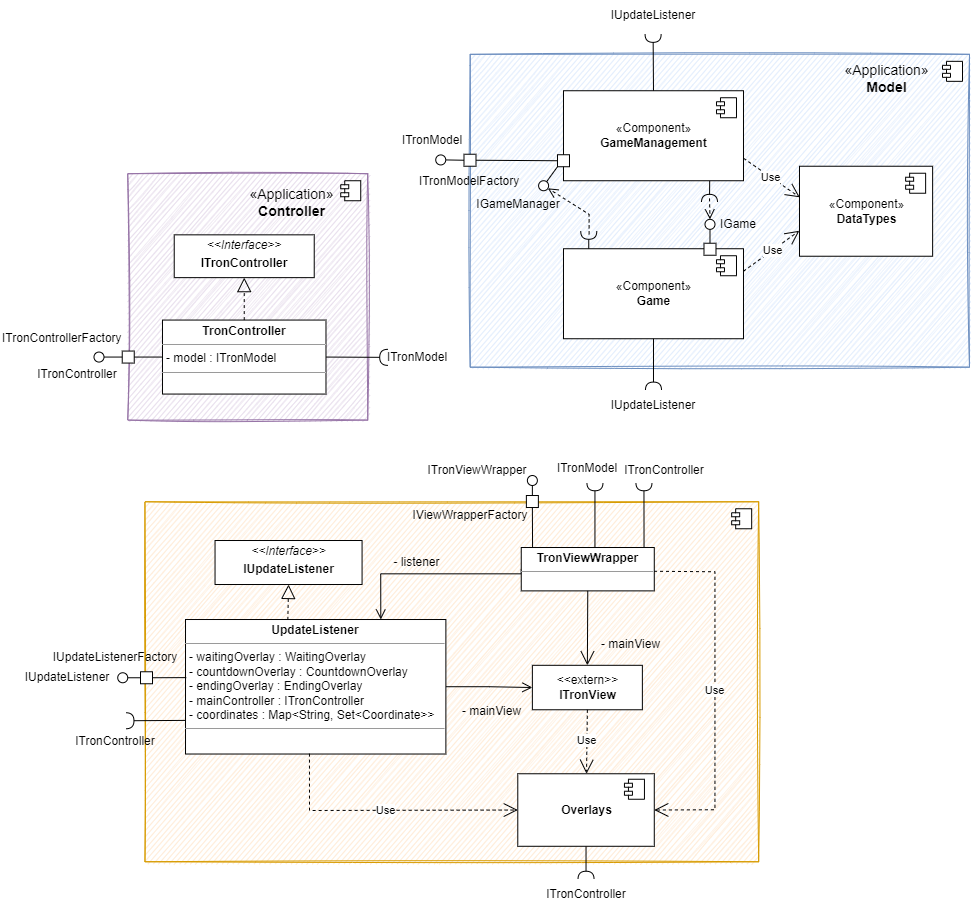
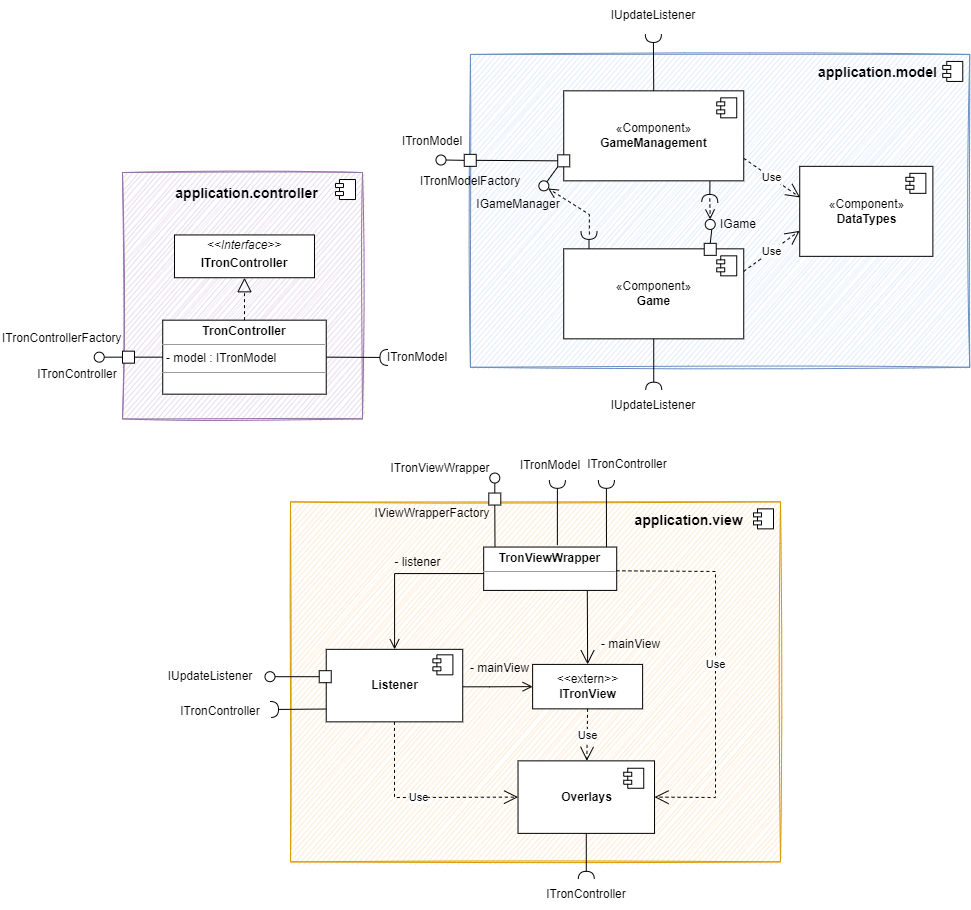
baustein

diff --git a/Dokumentation/App/TronGame_Documentation.md b/Dokumentation/App/TronGame_Documentation.md
@@ -196,7 +196,8 @@ Es wird die zur Verfügung gestellte view library verwendet. Das ITronView Inter
 ## 5.2 Ebene 2 : Application
 ![image info](./diagrams/baustein/bs_layer2_view_controller.png)
 ## 5.3 Ebene 3 : Application
-
+![image info](./diagrams/baustein/bs_layer3_model.png)
+![image info](./diagrams/baustein/bs_layer3_view.png)
 ## 5.2 Ebene 3 : ApplicationStub
 
 Für *name* ∈ {IGameManager, IGame, ITronView} gibt es im ApplicationStub eine Komponente der Form:
